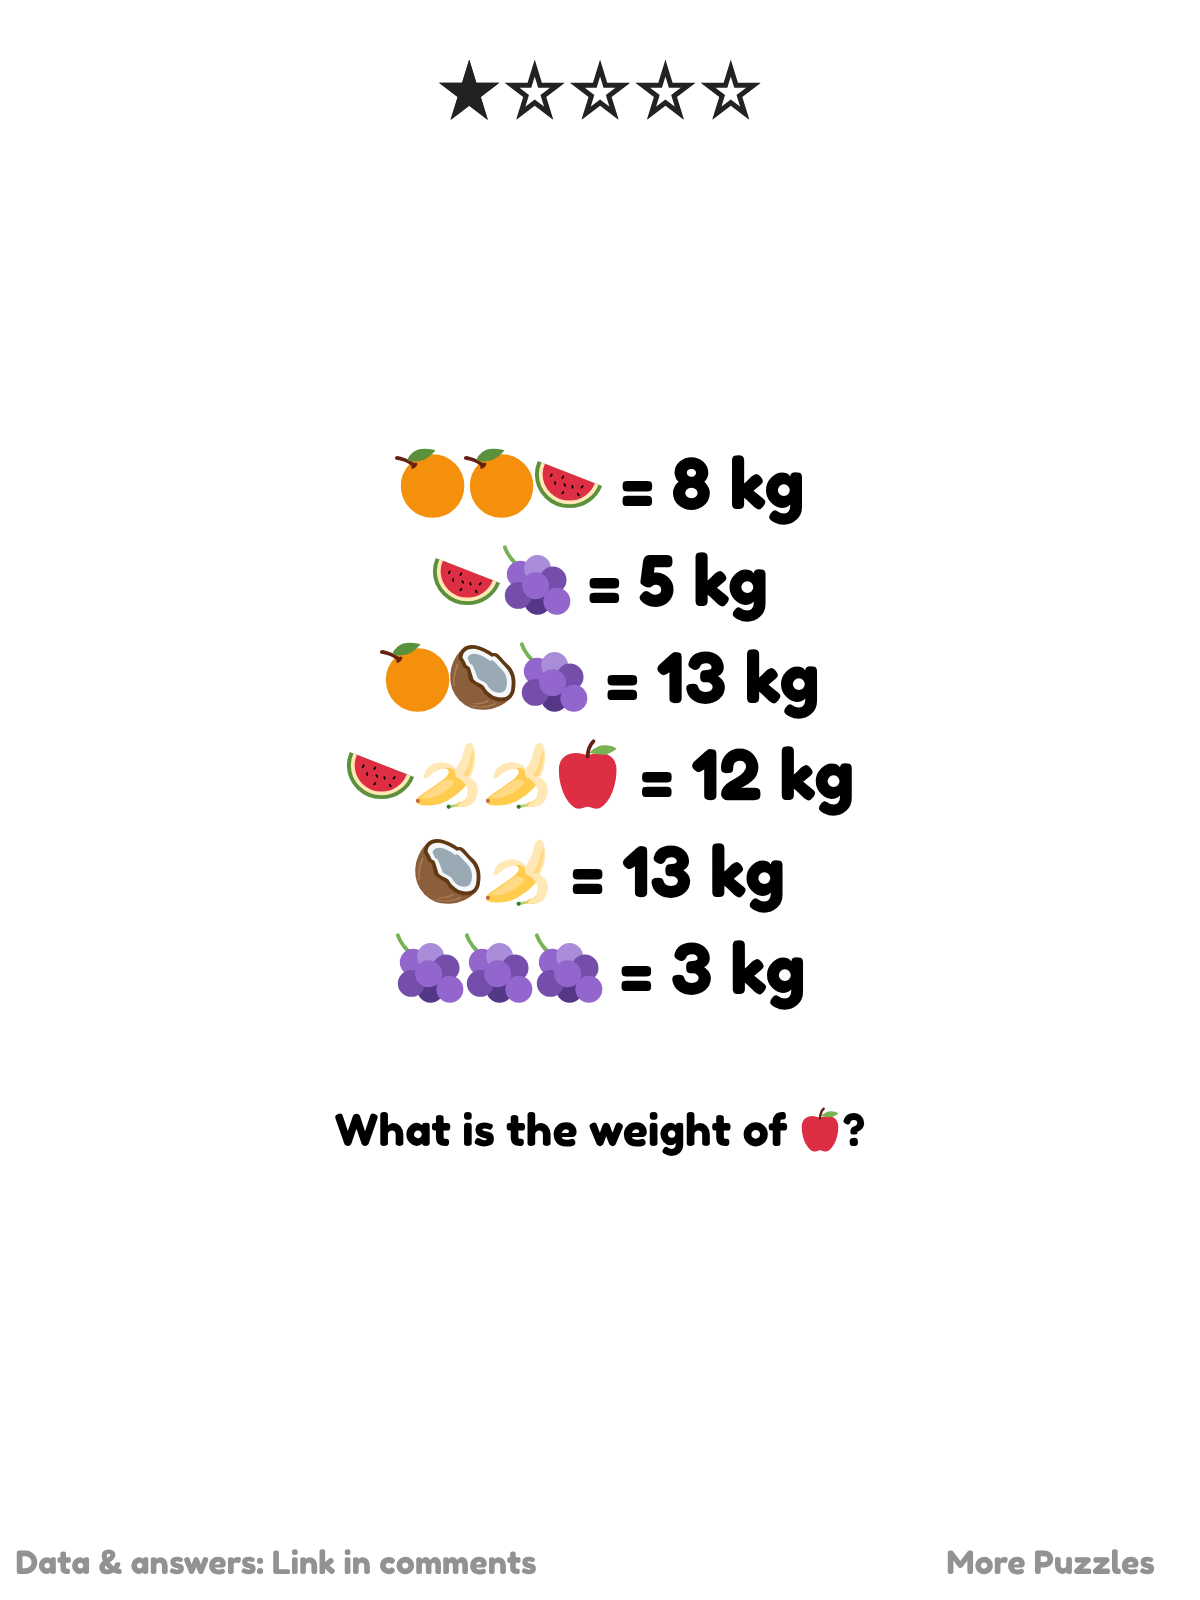
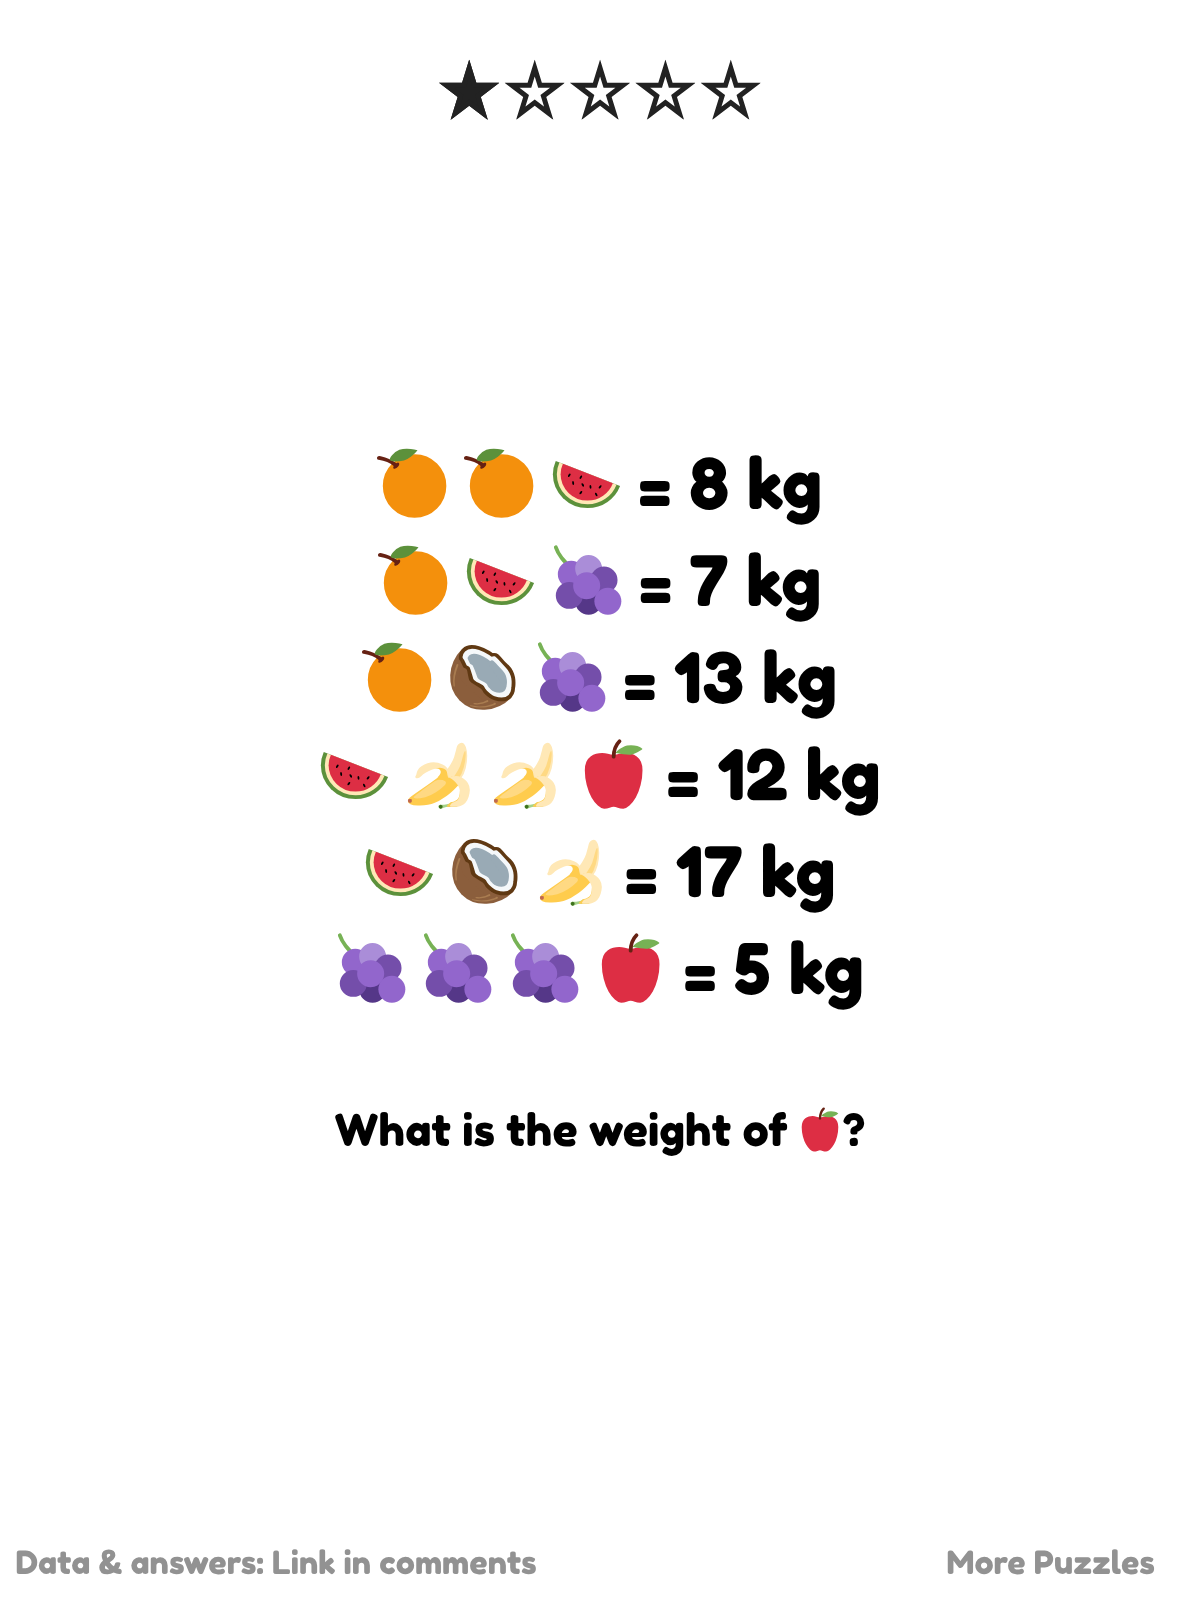
Updated weighing fruit puzzle

Changed region(s): [[0.2467, 0.2812, 0.74, 0.6562]]

diff --git a/assets/code/5-algorithm-problems-to-get-your-brain-working/weighing-fruit/solution.py b/assets/code/5-algorithm-problems-to-get-your-brain-working/weighing-fruit/solution.py
@@ -4,13 +4,13 @@ import numpy as np
 # [Lemon, Melon, Coconut, Banana, Grape, Apple]
 a = np.array([
     [2, 1, 0, 0, 0, 0],
-    [0, 1, 0, 0, 1, 0],
+    [1, 1, 0, 0, 1, 0],
     [1, 0, 1, 0, 1, 0],
     [0, 1, 0, 2, 0, 1],
-    [0, 0, 1, 1, 0, 0],
-    [0, 0, 0, 0, 3, 0],
+    [0, 1, 1, 1, 0, 0],
+    [0, 0, 0, 0, 3, 1],
 ])
-b = np.array([8, 5, 13, 12, 13, 3])
+b = np.array([8, 7, 13, 12, 17, 5])
 x = np.linalg.solve(a, b)
 print("Apple =", x[1])
 print("[Lemon, Melon, Coconut, Banana, Grape, Apple] =", x)

diff --git a/collections/_posts/2025-11-12-5-algorithm-problems-to-get-your-brain-working.md b/collections/_posts/2025-11-12-5-algorithm-problems-to-get-your-brain-working.md
@@ -4,15 +4,26 @@ title: "5 Algorithm Problems to Get Your Brain Working"
 date: 2025-11-12 11:00:00 +0200
 tags: Game Strategy Simulation
 accent_color: "#4ec7adff"
-# front_image: /assets/code/exploring-flip-7-strategies/flip_7.jpg
-# thumbnail: /assets/code/exploring-flip-7-strategies/flip_7.jpg
+front_image: /assets/code/5-algorithm-problems-to-get-your-brain-working/puzzle-pieces.jpg
+thumbnail: /assets/code/5-algorithm-problems-to-get-your-brain-working/puzzle-pieces.jpg
 ---
+
+Do you want a brain workout? Look no further. I've created five algorithmic puzzles for you to solve using your reasoning and programming skills. At the bottom of the page you'll find answers so you can check your own solutions. You can use the internet if you want, but it may be more fun to try it with as little help as possible! All problems can be solved by writing code that runs in less than one minute on any modern computer.
 
 ## Weighing Fruit - ★
 
 Find out what the weight of an apple (🍎) is using the formulas below. There is exactly one possible solution.
 
-![Maze with start and finish](/assets/code/5-algorithm-problems-to-get-your-brain-working/weighing-fruit/image-small.png)
+$$
+    {\Large \begin{aligned}
+        🍊🍊🍉 &= 8 \text{ kg} \\
+        🍊🍉🍇 &= 7 \text{ kg} \\
+        🍊🥥🍇 &= 13 \text{ kg} \\
+        🍉🍌🍌🍎 &= 12 \text{ kg} \\
+        🍉🥥🍌 &= 17 \text{ kg} \\
+        🍇🍇🍇🍎 &= 5 \text{ kg}
+    \end{aligned}}
+$$
 
 ## Fewest Left Turns - ★★
 
